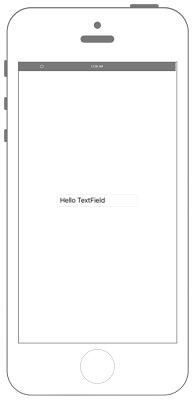
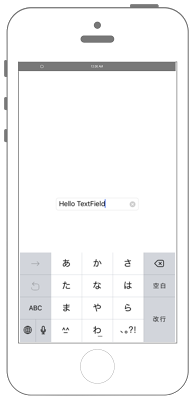
Update image.

diff --git a/uikit/004_uitextfield.md b/uikit/004_uitextfield.md
@@ -40,6 +40,9 @@ class ViewController: UIViewController, UITextFieldDelegate {
         
         // 枠を表示する.
         myTextField.borderStyle = .roundedRect
+
+        // クリアボタンを追加.
+        myTextField.clearButtonMode = .whileEditing
         
         // Viewに追加する
         self.view.addSubview(myTextField)
@@ -116,6 +119,9 @@ class ViewController: UIViewController, UITextFieldDelegate {
         
         // 枠を表示する.
         myTextField.borderStyle = .RoundedRect
+
+        // クリアボタンを追加.
+        myTextField.clearButtonMode = .WhileEditing
         
         // Viewに追加する
         self.view.addSubview(myTextField)
